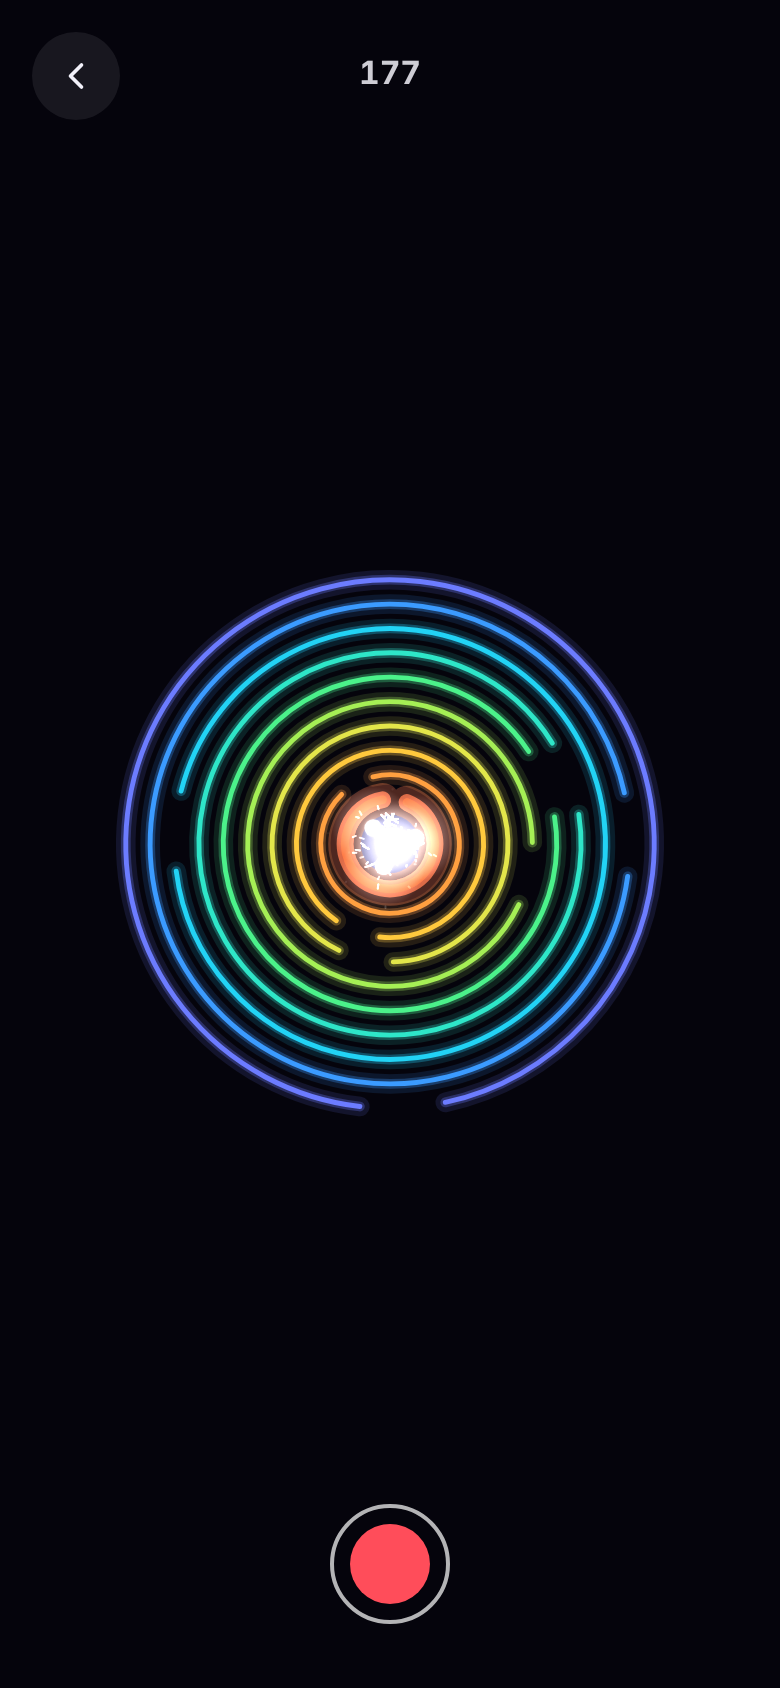
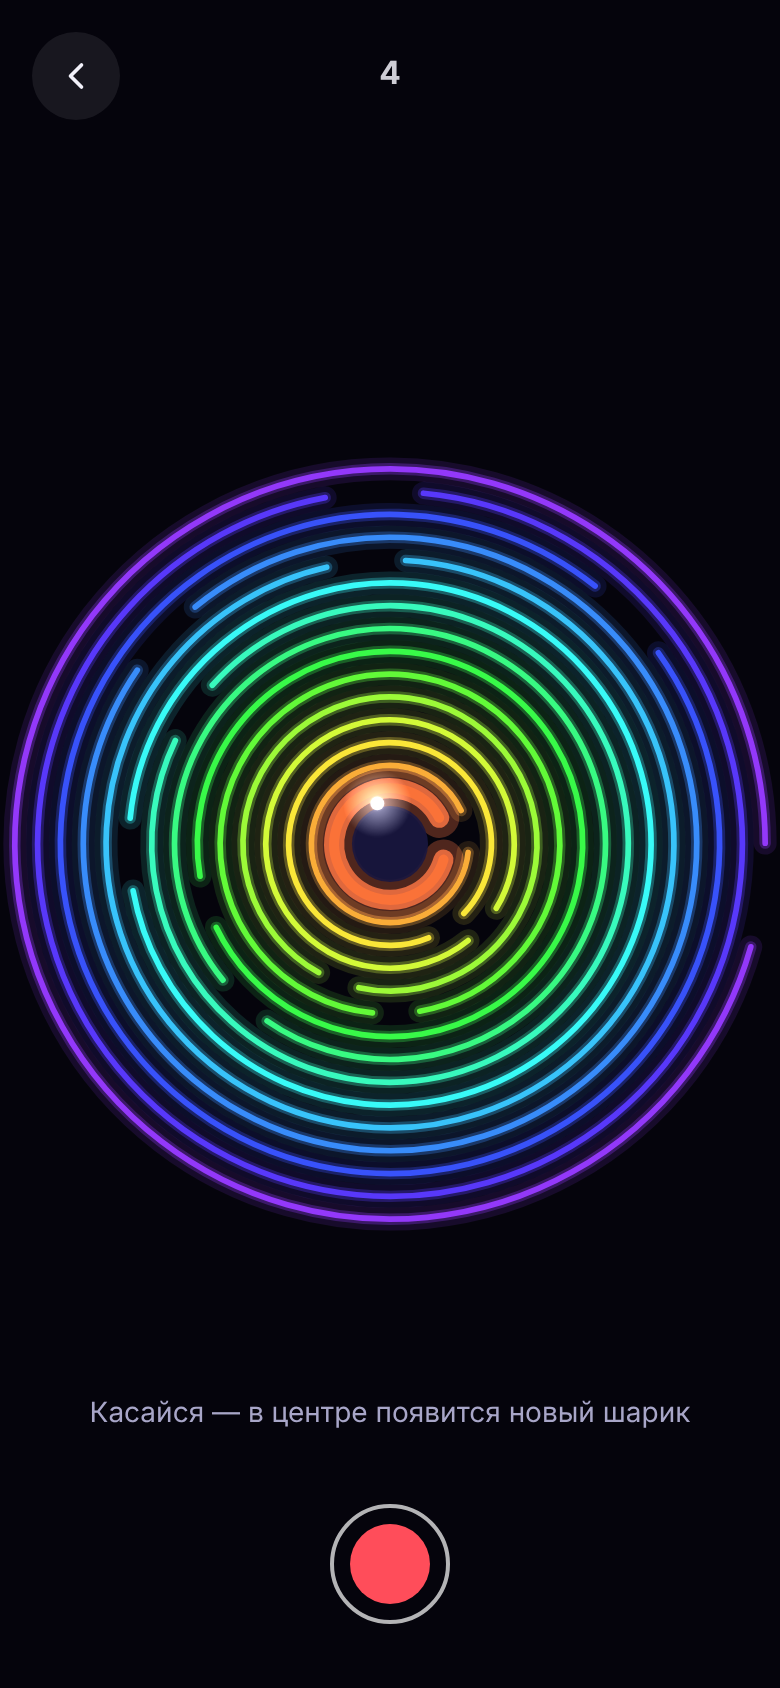
Вихрь: крупные кольца на весь экран
- 15 колец вместо 10, внешнее почти от края до края
- Разрывы выстроены спиралью, радуга от оранжевого к фиолетовому
- Шарик меньше, чтобы проходил между кольцами
- Игра может задать свой размер арены (game.padding)

Claude-Session: https://claude.ai/code/session_01EUEjqvo869MamYArZJDCRr

diff --git a/src/games/vortex.js b/src/games/vortex.js
@@ -2,13 +2,16 @@
 // Удар о кольцо — нота, выход через разрыв — кольцо разбивается со звоном.
 
 import { Game } from './base.js';
-import { RAINBOW, neonStroke, withAlpha } from '../render/fx.js';
+import { neonStroke, withAlpha } from '../render/fx.js';
 
 const TAU = Math.PI * 2;
-const RINGS = 10;
+const RINGS = 15;
+const INNER_R = 44;   // радиус первого кольца
+const STEP = 18;      // расстояние между кольцами (внешнее ≈ 296 — почти весь экран)
 
 export class VortexGame extends Game {
   setup() {
+    this.padding = 1.04; // кольца крупные, почти от края до края
     this.world.gravity = 0;
     this.world.minSpeed = 260;
     this.world.maxSpeed = 900;
@@ -22,13 +25,18 @@ export class VortexGame extends Game {
     this.world.balls = [];
     this.rings = [];
     for (let i = 0; i < RINGS; i++) {
-      const gap = 0.55 - i * 0.025;
+      const R = INNER_R + i * STEP;
+      // Разрыв примерно одной длины на всех кольцах (на внешних — меньший угол)
+      const gap = Math.max(0.28, 34 / R);
       const arc = {
-        cx: 0, cy: 0, R: 62 + i * 23, w: 5,
-        start: 0, len: TAU - gap, rot: Math.random() * TAU,
-        spin: (i % 2 ? -1 : 1) * (0.5 + i * 0.06),
+        cx: 0, cy: 0, R, w: 4.5,
+        start: 0, len: TAU - gap,
+        // Разрывы выстроены спиралью — как в залипательных роликах
+        rot: i * 0.42,
+        spin: (i % 2 ? -1 : 1) * (0.35 + i * 0.035),
         data: { note: RINGS - i, ring: i },
-        color: RAINBOW[i % RAINBOW.length],
+        // Радуга от оранжевого в центре до фиолетового снаружи
+        color: `hsl(${Math.round(18 + (i / (RINGS - 1)) * 250)},95%,60%)`,
         pulse: 0,
       };
       this.rings.push(arc);
@@ -40,7 +48,7 @@ export class VortexGame extends Game {
 
   addCenterBall() {
     const a = Math.random() * TAU;
-    this.world.addBall({ x: 0, y: 0, vx: Math.cos(a) * 320, vy: Math.sin(a) * 320, r: 9, color: '#FFFFFF' });
+    this.world.addBall({ x: 0, y: 0, vx: Math.cos(a) * 320, vy: Math.sin(a) * 320, r: 5.5, color: '#FFFFFF' });
   }
 
   tap() {
@@ -102,7 +110,7 @@ export class VortexGame extends Game {
     // Тёмный центр
     ctx.fillStyle = withAlpha('#1A1740', 0.9);
     ctx.beginPath();
-    ctx.arc(0, 0, 40, 0, TAU);
+    ctx.arc(0, 0, 30, 0, TAU);
     ctx.fill();
   }
 }

diff --git a/src/core/runner.js b/src/core/runner.js
@@ -33,6 +33,7 @@ export class Runner {
   setGame(game) {
     this.game = game;
     if (game) game.react = track.react;
+    if (this.w) this.resize();
   }
 
   resize() {
@@ -43,7 +44,9 @@ export class Runner {
     this.canvas.height = Math.max(1, Math.round(r.height * dpr));
     this.dpr = dpr;
     // Арена (2*ARENA) вписывается в меньшую сторону; padding < 1 делает её меньше
-    this.scale = (Math.min(this.w, this.h) / (ARENA * 2)) * this.padding;
+    // Игра может попросить свой размер (game.padding), например «Вихрь» — почти на весь экран
+    const pad = (this.game && this.game.padding) || this.padding;
+    this.scale = (Math.min(this.w, this.h) / (ARENA * 2)) * pad;
   }
 
   toWorld(e) {
